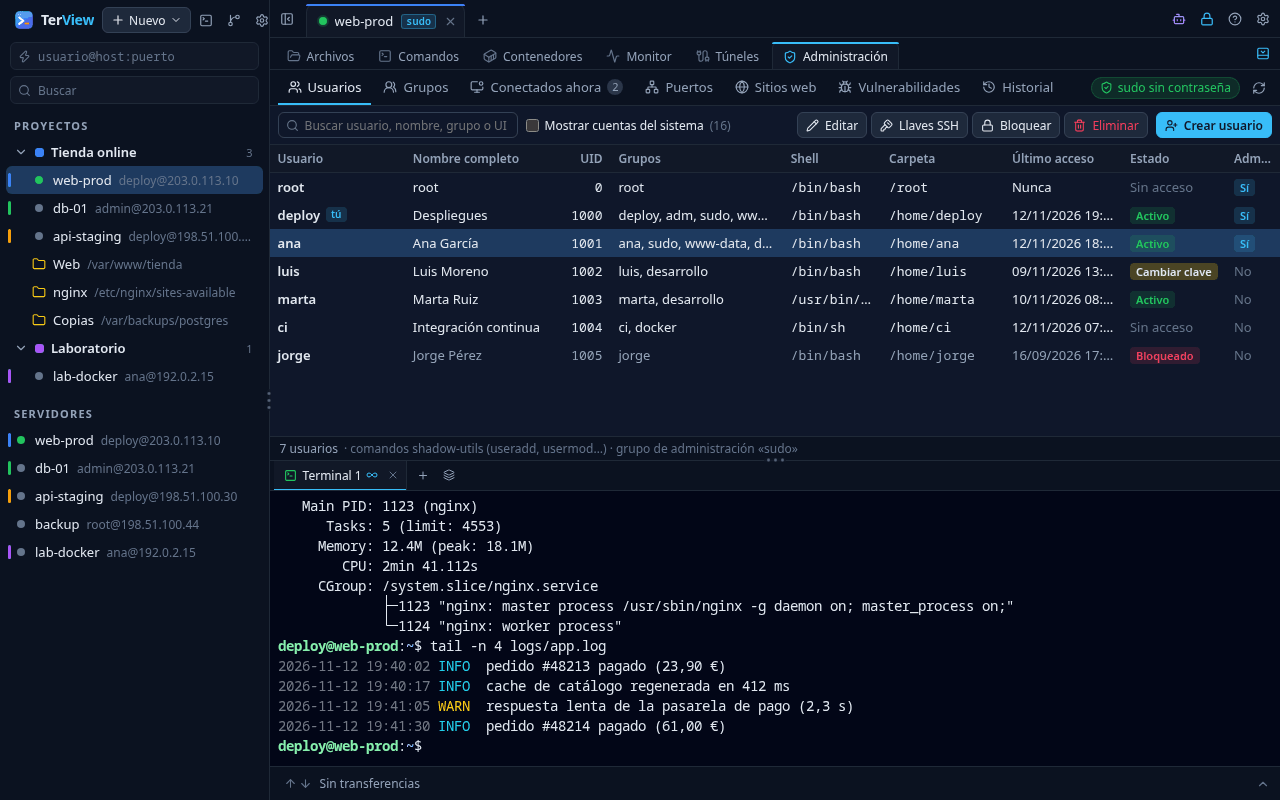
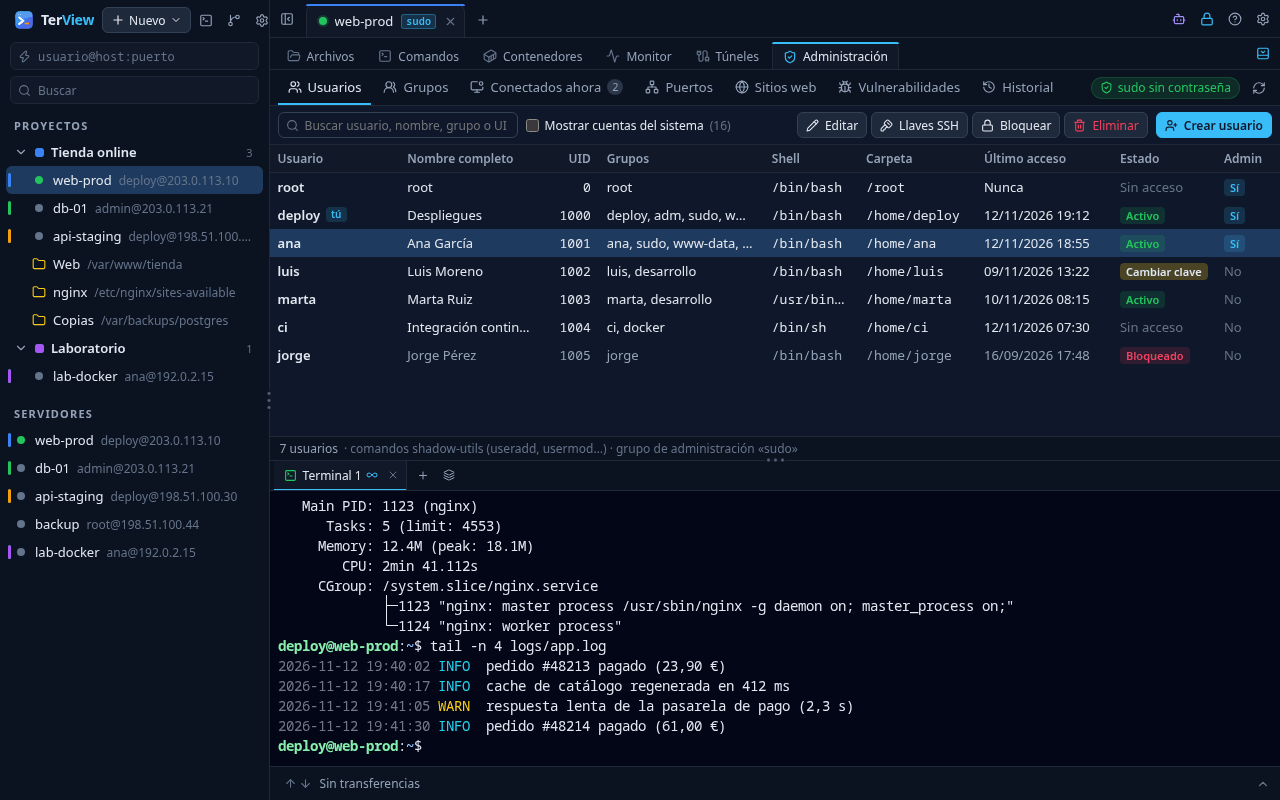
Usuarios: columnas «Último acceso» y «Admin» sin recortar

Changed region(s): [[0.4375, 0.1875, 1.0, 0.4688], [0.3125, 0.1875, 0.4062, 0.4688]]

diff --git a/src/components/Admin/UsersTab.tsx b/src/components/Admin/UsersTab.tsx
@@ -73,7 +73,7 @@ export function UsersTab() {
       {
         key: "last",
         label: "Último acceso",
-        width: "118px",
+        width: "136px",
         render: (u) => u.lastLogin ?? <span className="faint">—</span>,
       },
       {
@@ -87,7 +87,7 @@ export function UsersTab() {
       {
         key: "sudo",
         label: "Admin",
-        width: "54px",
+        width: "64px",
         render: (u) => (u.isAdmin ? <span className="adm-tag adm-tag-accent">Sí</span> : <span className="faint">No</span>),
         title: (u) => (u.isAdmin ? (u.uid === 0 ? "root" : "Está en wheel/sudo/admin") : ""),
       },
